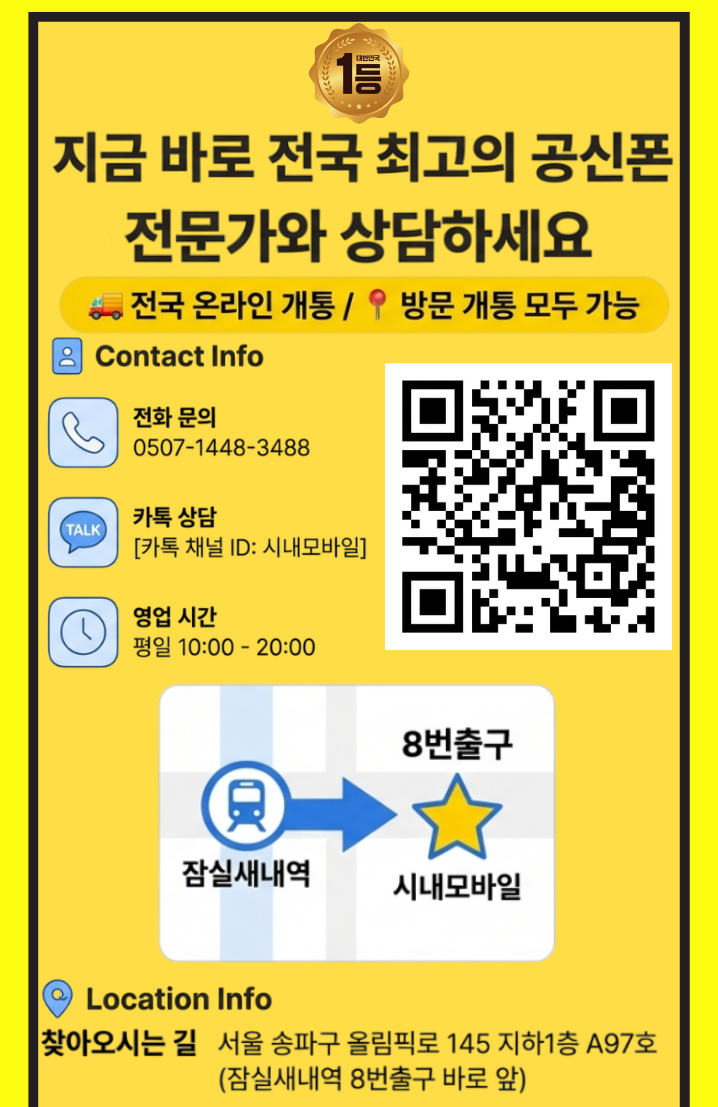
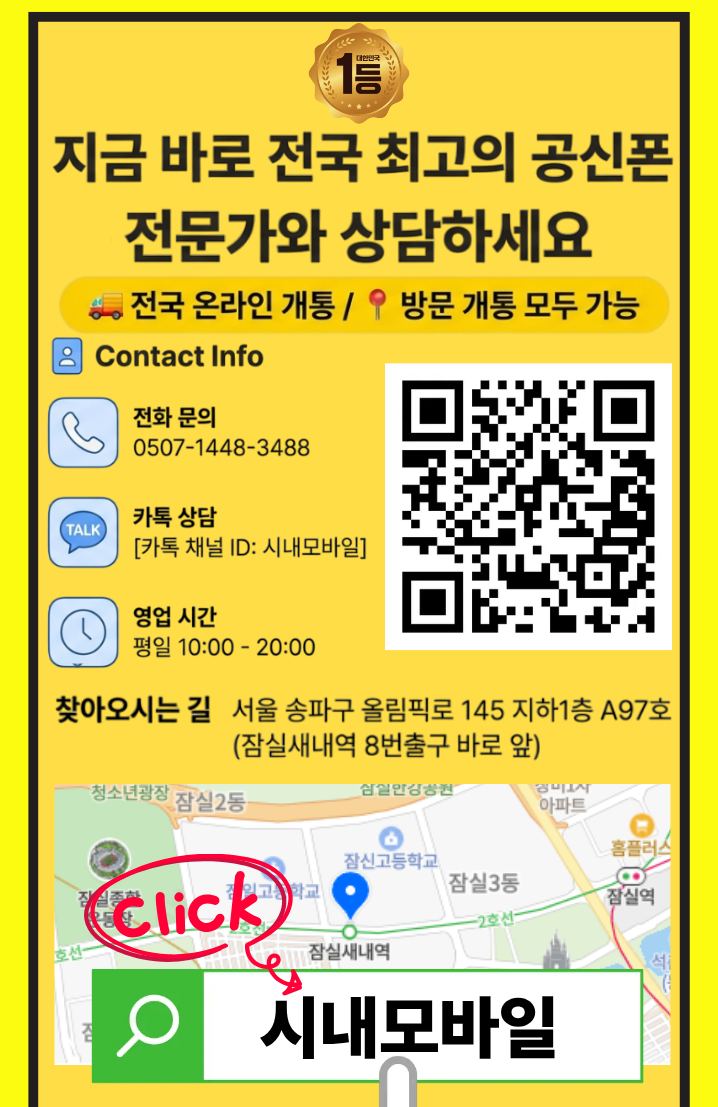
s

Changed region(s): [[0.0613, 0.6143, 0.9499, 1.0]]

diff --git a/index.html b/index.html
@@ -98,8 +98,9 @@
                         <div class="image-item">
                             <img src="images/section/h-7.png" alt="공신폰 소개 7">
                         </div>
-                        <div class="image-item">
+                        <div class="image-item image-item-with-button">
                             <img src="images/section/h-8.png" alt="공신폰 소개 8">
+                            <a href="https://map.naver.com/p/entry/place/1630514990?placePath=/home?entry=pll&from=map&fromPanelNum=1&additionalHeight=76&timestamp=202512180047&locale=ko&svcName=map_pcv5&searchType=place&lng=127.0870103&lat=37.5119636&c=15.00,0,0,0,dh" target="_blank" class="image-map-button" aria-label="네이버 지도에서 위치 보기"></a>
                         </div>
                     </div>
                     

diff --git a/styles.css b/styles.css
@@ -885,6 +885,7 @@ body {
 .image-item {
     margin-bottom: 0;
     text-align: center;
+    position: relative;
 }
 
 .image-item:last-child {
@@ -899,6 +900,24 @@ body {
     border-radius: 0;
     box-shadow: none;
     vertical-align: top;
+}
+
+/* 이미지 하단 투명 버튼 (h-8.png용) */
+.image-item-with-button {
+    position: relative;
+}
+
+.image-map-button {
+    position: absolute;
+    bottom: 0;
+    left: 0;
+    width: 100%;
+    height: 30%;
+    background: transparent;
+    cursor: pointer;
+    z-index: 10;
+    display: block;
+    text-decoration: none;
 }
 
 /* 비디오 섹션 */
